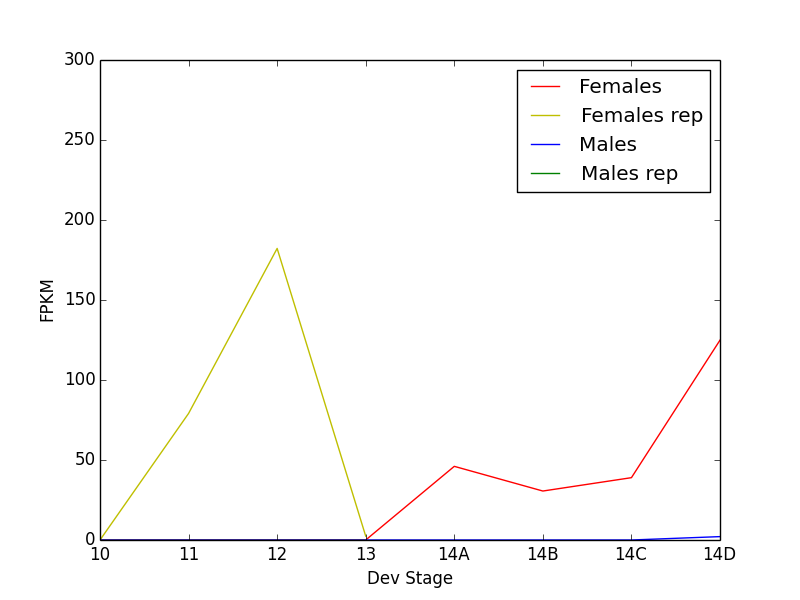
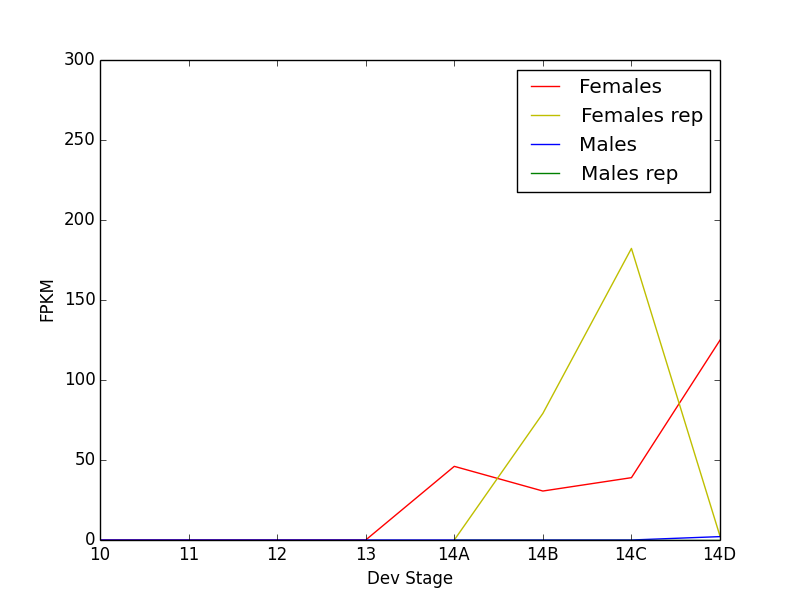
update Q1

diff --git a/day3/day3-lunch/dy3lunch1.py b/day3/day3-lunch/dy3lunch1.py
@@ -10,13 +10,13 @@ metadf = pd.read_csv("~/qbb2015/rawdata/samples.csv")
 metadf2 = pd.read_csv("~/qbb2015/rawdata/replicates.csv")
 
 
-dev_stage = {}
+"""dev_stage = {}
 for i, data in metadf.iterrows():
     if data["stage"] in ["10", "11", "12", "13", "14A", "14B", "14C", "14D"]:
         if data["stage"] not in dev_stage:
             dev_stage[data["stage"]] = 1
         else:
-            dev_stage[data["stage"]] += 1
+            dev_stage[data["stage"]] += 1"""
 
 
 Sxl = []
@@ -30,7 +30,6 @@ for sample in metadf2[metadf2["sex"] == "female"]["sample"]:
     df2 = pd.read_table("~/qbb2015/stringtie/" + sample + "/t_data.ctab")
     roi2 = df2["t_name"].str.contains("FBtr0331261")
     Sxl2.append(df2[roi2]["FPKM"].values)
-    dev_stage[data["stage"]] += 4
 
 Sxlm = []
 for sample in metadf[metadf["sex"] == "male"]["sample"]:
@@ -43,7 +42,6 @@ for sample in metadf2[metadf2["sex"] == "male"]["sample"]:
     dfm2 = pd.read_table("~/qbb2015/stringtie/" + sample + "/t_data.ctab")
     roim2 = dfm2["t_name"].str.contains("FBtr0331261")
     Sxlm2.append(dfm2[roim2]["FPKM"].values)
-    dev_stage[data["stage"]] += 4
 
 
 print Sxl
@@ -53,11 +51,11 @@ print Sxlm2
 
 plt.figure()
 plt.plot(Sxl, 'r')
-plt.plot(Sxl2, 'y')
+plt.plot([4,5,6,7], Sxl2, 'y')
 plt.plot(Sxlm, 'b')
-plt.plot(Sxlm2, 'g')
+plt.plot([4,5,6,7], Sxlm2, 'g')
 plt.legend(['Females', 'Females rep', 'Males', 'Males rep'])
-plt.xticks(range(len(dev_stage)), ["10", "11", "12", "13", "14A", "14B", "14C", "14D"])
+plt.xticks([0,1,2,3,4,5,6,7], ["10", "11", "12", "13", "14A", "14B", "14C", "14D"])
 plt.ylim([0,300])
 plt.ylabel("FPKM")
 plt.xlabel("Dev Stage")
